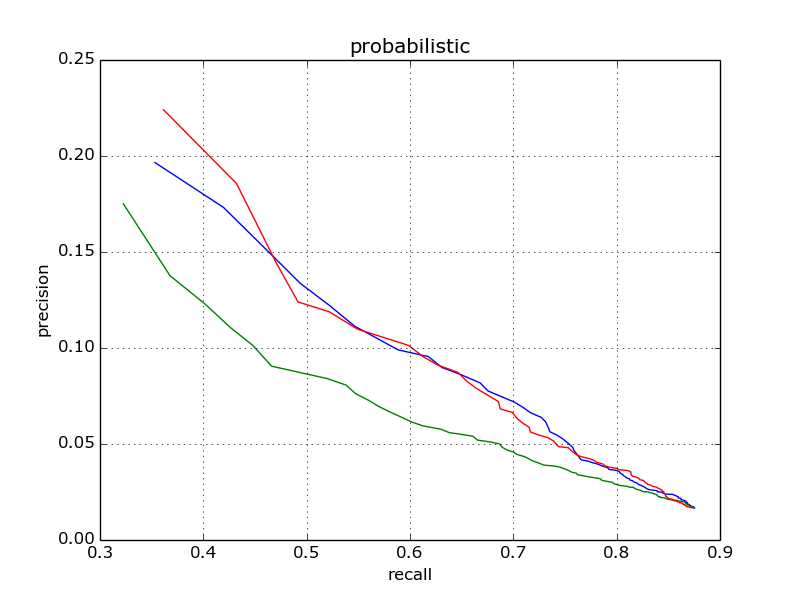
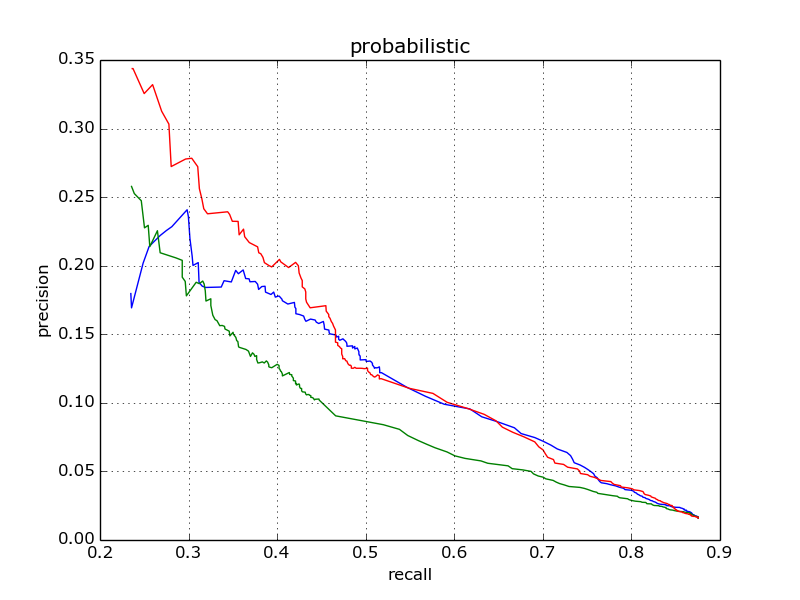
New graphs.

diff --git a/index/clients/statistics/stats_generator.py b/index/clients/statistics/stats_generator.py
@@ -156,18 +156,25 @@ class RecallPrecisionGenerator(object):
         average_prec_list = []
         average_recall_list = []
 
-        for percentage in range(1, iterations):
-            average_prec = 0
-            average_recall = 0
-            perc = int(ceil(percentage / iterations * 100))
-            for (query_id, _) in self._queries.items():
-                (recall, prec) = self._compute_recall_and_precision(query_id, perc)
-                average_recall = average_recall + recall
-                average_prec = average_prec + prec
-            average_recall = average_recall / len(self._queries)
-            average_prec = average_prec / len(self._queries)
-            average_recall_list.append(average_recall)
-            average_prec_list.append(average_prec)
+        for part in range(1, 3):
+            if part == 1:
+                offset = 0
+                multip = 0.05
+            else:
+                offset = 5
+                multip = 1
+            for percentage in range(1, iterations):
+                average_prec = 0
+                average_recall = 0
+                perc = percentage / iterations * 100 * multip + offset
+                for (query_id, _) in self._queries.items():
+                    (recall, prec) = self._compute_recall_and_precision(query_id, perc)
+                    average_recall = average_recall + recall
+                    average_prec = average_prec + prec
+                average_recall = average_recall / len(self._queries)
+                average_prec = average_prec / len(self._queries)
+                average_recall_list.append(average_recall)
+                average_prec_list.append(average_prec)
 
         return (average_recall_list, average_prec_list)
 
@@ -181,7 +188,6 @@ class RecallPrecisionGenerator(object):
 
         query_results = self._get_query_results(query_id)
         results_len = len(query_results)
-
         top = int(ceil(results_len*percentage/100))
         query_results = query_results[0:top]
         results_len = top

diff --git a/index/core/index.py b/index/core/index.py
@@ -83,12 +83,13 @@ class Index:
             if word in self._inverted_index:
                 document_frequency = len(self._inverted_index[word])
                 irrelevant_prob = document_frequency / self._number_of_docs
-                relevant_prob = 0.5
+                relevant_prob = 1/3 + 2/3*document_frequency/self._number_of_docs
                 for doc in self._inverted_index[word]:
+                    term = log(relevant_prob/(1 - relevant_prob)) - log(irrelevant_prob/(1 - irrelevant_prob))
                     if doc[DOC_ID] in results:
-                        results[doc[DOC_ID]] += log(relevant_prob/(1 - relevant_prob)) - log(irrelevant_prob/(1 - irrelevant_prob))
+                        results[doc[DOC_ID]] += term
                     else:
-                        results[doc[DOC_ID]] = log(relevant_prob/(1 - relevant_prob)) - log(irrelevant_prob/(1 - irrelevant_prob))
+                        results[doc[DOC_ID]] = term
         return results
 
     def _scalar_product_with_index(self, query_vector, weight_key):
